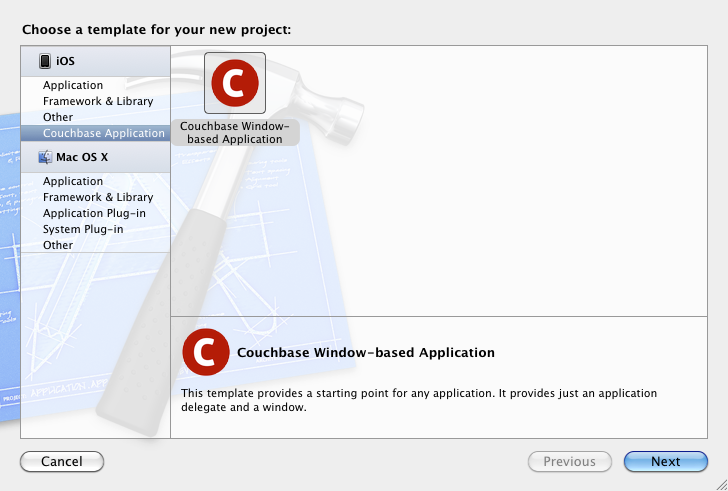
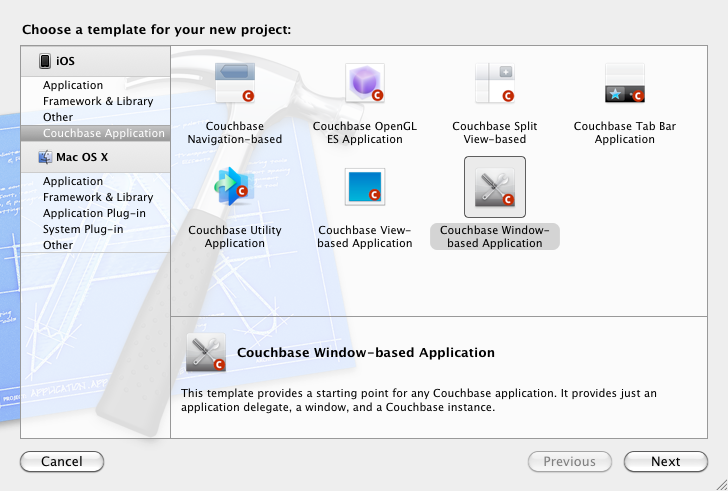
updated docs to match code changes

diff --git a/README.md b/README.md
@@ -4,7 +4,7 @@ These templates allow you to quickly get started integrating CouchDB into your n
 
 ### Current Status
 
-This is the first release of the template.  It is intended as developer preview.  Your Xcode MAY crash as a result of this template. 
+This is the second release of the template.  It is intended as developer preview.  Your Xcode MAY crash as a result of this template. 
 
 ### Getting Started
 
@@ -20,7 +20,7 @@ This is the first release of the template.  It is intended as developer preview.
 
 * Select File > New > New Project...
 
-* You should see a Couchbase Application group on the left hand side, then select Couchbase Window-based Application
+* You should see a Couchbase Application group on the left hand side, then several Couchbase variants of the main Application templates, select the one you'd like to use (the subsequent screens assume you chose Couchbase Window-based Application)
 
 <img src="https://github.com/mschoch/iOS-Couchbase-Xcode-templates/raw/master/doc/resources/001.png" width="400"/>
 
@@ -50,8 +50,6 @@ This is the first release of the template.  It is intended as developer preview.
 
 ### Future Plans
 
-* Refactor the layout of files to make it easier to support multiple templates (take advantage of the inheritance model that these templates support)
-* Add support for a few more types of templates (low priority, but should be straighforward to support all the defaults Apple ships with)
 * Add proper support for linking to the libraries (need better documentation around Xcode 4 project template files, doesn't seem community has figured it all out yet, see THANKS below)
 * Integrate this with main Mobile Couchbase repo
 * Possibly create simple installer to streamline this further
